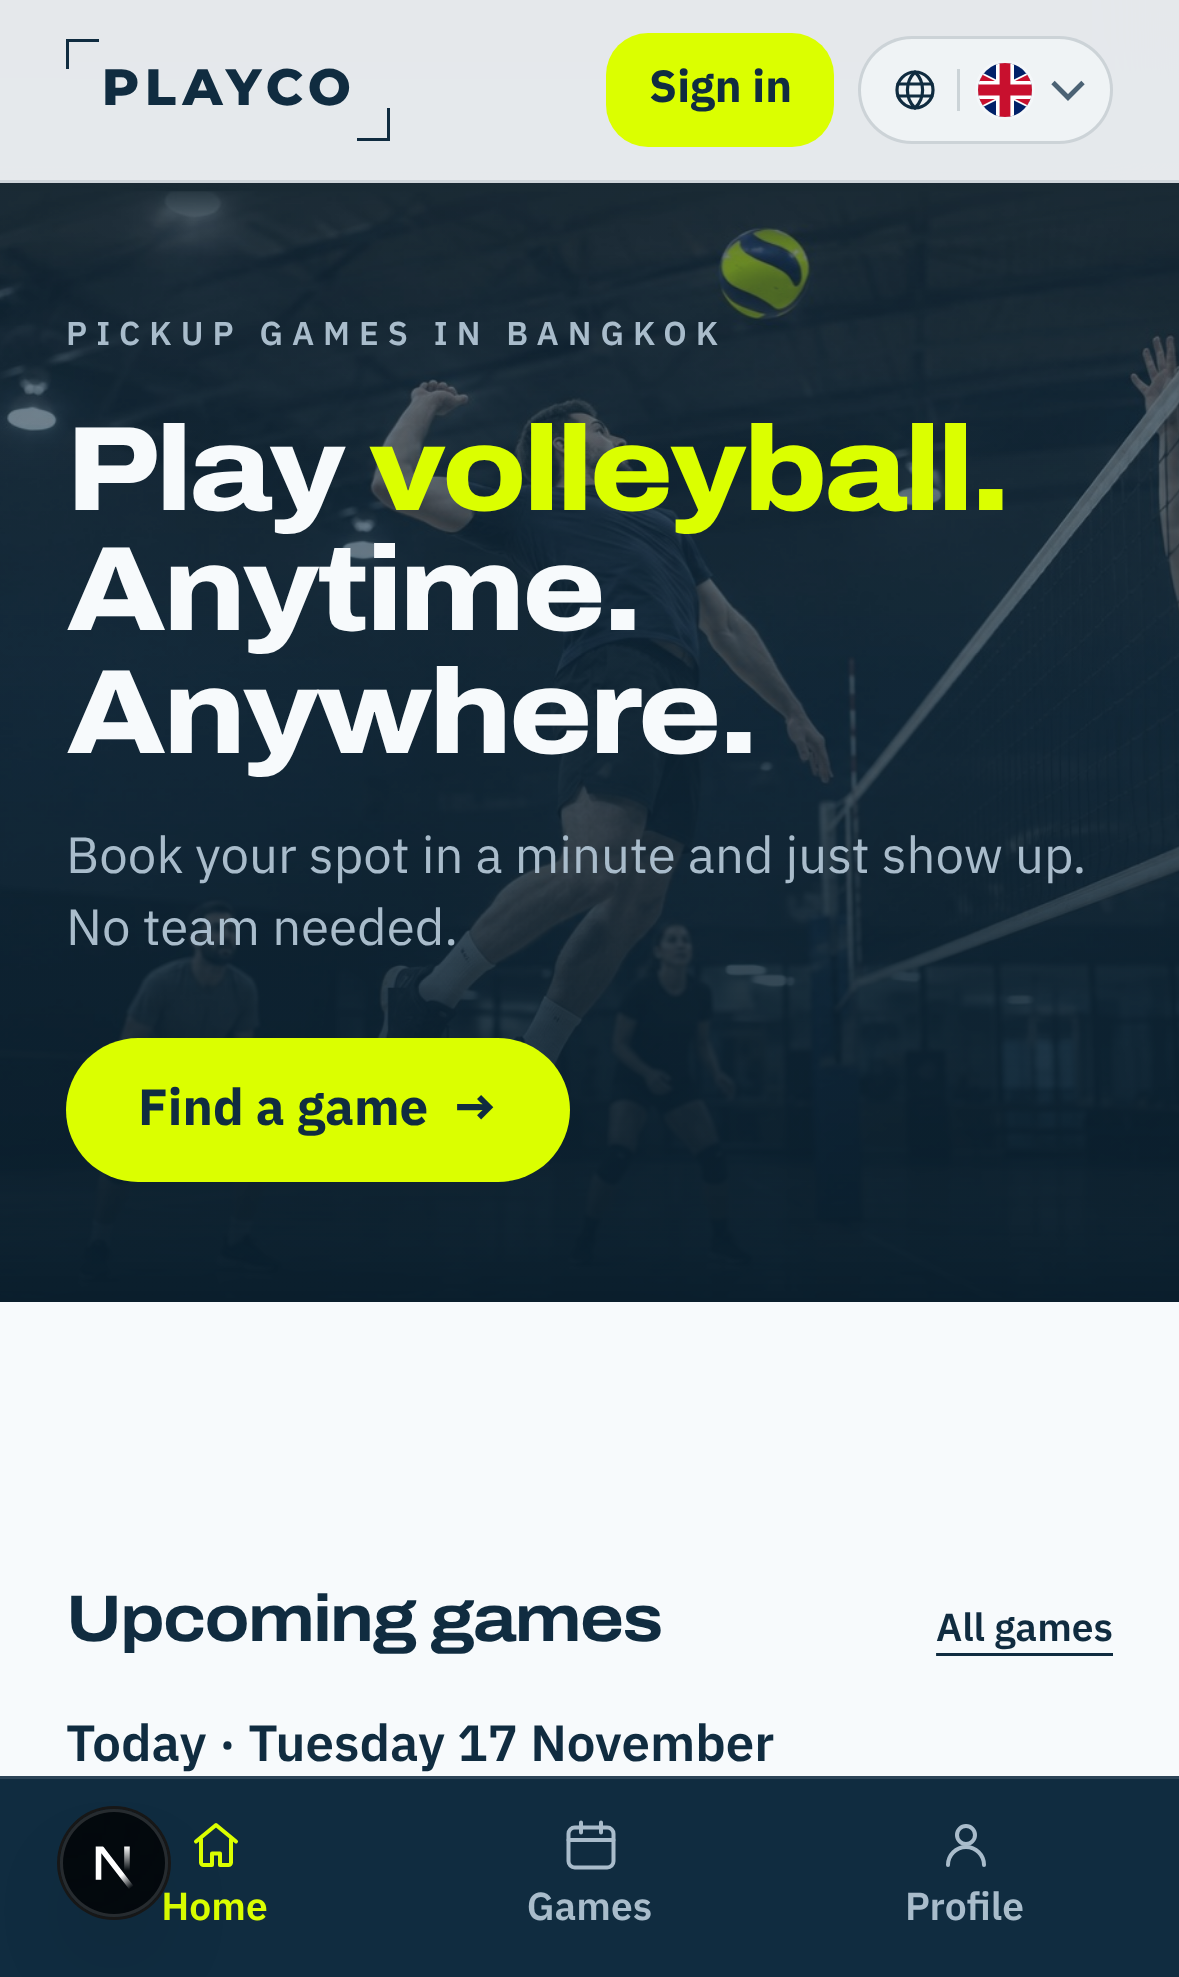
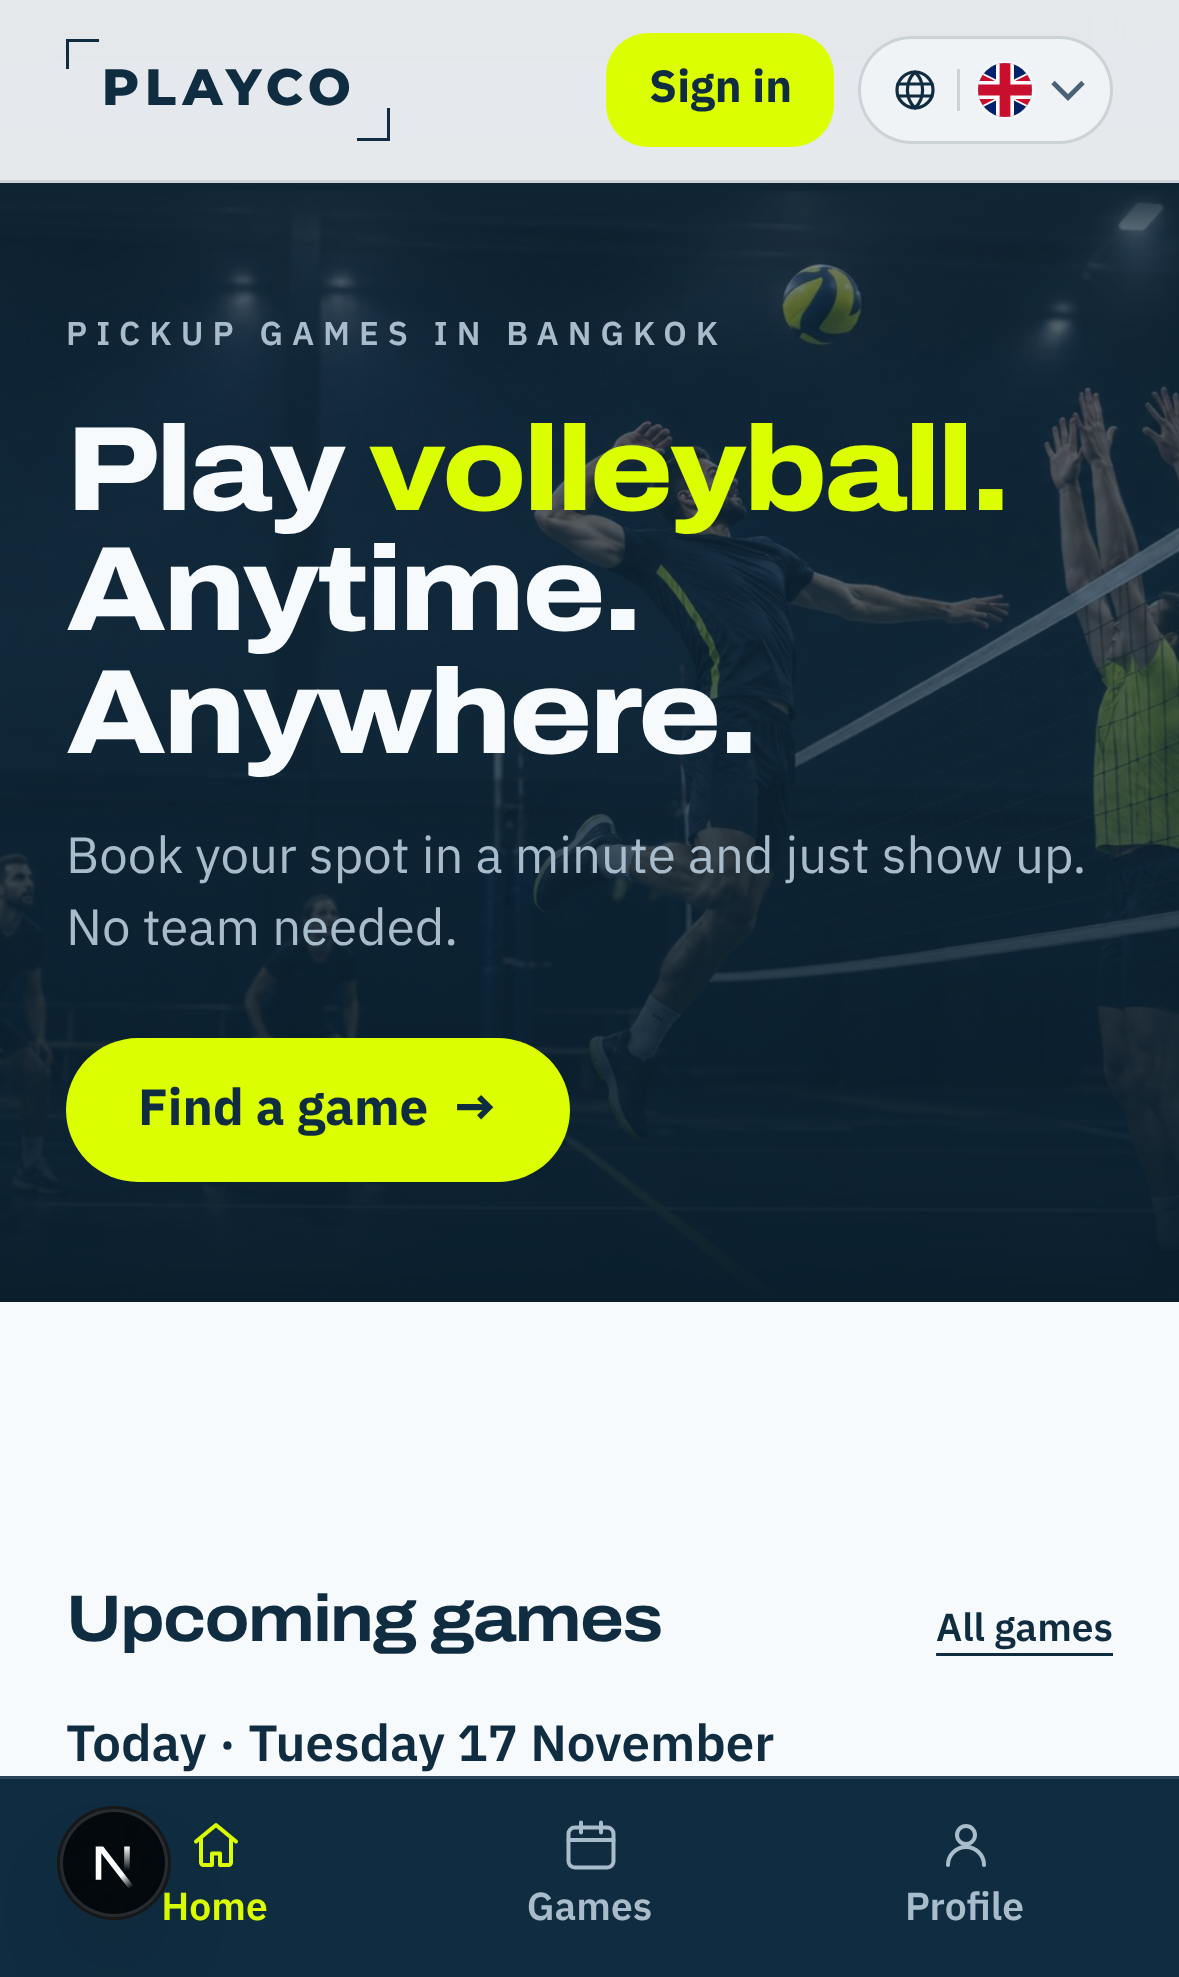
Hero photo generated in the brand colours: navy hall and court, lime shirts, ball and line
Replaces the recoloured first image with one generated in the palette: a navy
hall and court, the blockers in lime, lime trim on the spiker, a lime-and-navy
ball and a lime court line. scripts/prepare-hero-photo.py paints out the
sportswear logos the generator drew (shorts, shoes, a sock) and adds headroom
so the ball clears the header. On phones the crop is centred on the spiker.

Claude-Session: https://claude.ai/code/session_01M3nzie131CXDQtmL21Agmr

diff --git a/app/page.tsx b/app/page.tsx
@@ -140,8 +140,8 @@ export default async function LandingPage() {
         eyebrow, "Play volleyball. Anytime. Anywhere.", one sentence, one action. A dark island (`theme-dark`), so
         `text-bone` is Cloud White and `text-accent` is lime here. The photo is a volleyball spike at the net
         (owner, 17 Nov 2026: "an action volleyball play", in place of the hall photo that read as a basketball court),
-        generated for Playco, so it needs no credit line, and graded into the brand colours (navy shadows, lime ball, cool
-        court; `scripts/grade-hero-photo.py`). A background video may replace it later (TODO.md).
+        generated for Playco in the brand colours (navy hall and court, lime shirts, ball and line), so it needs no credit
+        line. `scripts/prepare-hero-photo.py` paints out the logos the generator drew and adds headroom over the ball. A background video may replace it later (TODO.md).
       */}
       <section data-testid="home-hero" className="theme-dark relative isolate overflow-hidden">
         <Image
@@ -150,7 +150,8 @@ export default async function LandingPage() {
           fill
           priority
           sizes="100vw"
-          className="-z-20 animate-hero-drift object-cover motion-reduce:animate-none"
+          /* On a phone the frame is cropped to a tall strip: centre it on the spiker and the ball, right of middle. */
+          className="-z-20 animate-hero-drift object-cover object-[66%_center] motion-reduce:animate-none md:object-center"
         />
         <span aria-hidden className="absolute inset-0 -z-10 bg-gradient-to-b from-ink/50 via-ink/65 to-page" />
         <div className="mx-auto flex max-w-shell flex-col items-start gap-4 px-gutter pb-10 pt-[calc(theme(spacing.nav)+40px)] md:pb-16 md:pt-[calc(theme(spacing.nav)+96px)]">

diff --git a/scripts/prepare-hero-photo.py b/scripts/prepare-hero-photo.py
@@ -1,0 +1,62 @@
+# One-off: prepares the generated hero photo for the home page.
+#   1. paints out brand-like marks on shorts, shoes and socks (the generator drew sportswear logos);
+#   2. adds headroom above the ball, so it clears the site header instead of hiding behind it.
+# Usage: python3 scripts/prepare-hero-photo.py <source.png> public/hero-default.jpg
+import sys
+import numpy as np
+from PIL import Image, ImageFilter
+
+src, out = sys.argv[1], sys.argv[2]
+a = np.asarray(Image.open(src).convert("RGB")).copy()
+h, w, _ = a.shape
+NAVY = np.array([0x10, 0x2C, 0x40]) / 255.0
+rng = np.random.default_rng(7)
+
+# (x0, y0, x1, y1, kind): "light" = a light mark on dark cloth, "dark" = a dark mark on a white shoe or sock,
+# "lime" = a lime mark on a dark shoe, "dim" = a grey mark on a dark shoe. The mark's pixels take the surrounding material's median colour.
+MARKS = [
+    (1286, 611, 1307, 626, "light"),  # blocker's shorts
+    (1405, 618, 1428, 635, "light"),  # second blocker's shorts
+    (1308, 822, 1339, 855, "light"),  # shoe, bottom right
+    (1350, 838, 1380, 864, "dim"),    # second shoe, bottom right
+    (845, 504, 871, 527, "lime"),     # spiker's raised shoe
+    (884, 669, 904, 697, "lime"),     # spiker's lower shoe
+    (888, 509, 900, 523, "dark"),     # spiker's sock
+    (162, 819, 189, 834, "dark"),     # left player's shoe
+    (0, 826, 13, 847, "dark"),        # left player's other shoe
+    (83, 667, 94, 678, "lime"),       # left player's shorts
+]
+
+for x0, y0, x1, y1, kind in MARKS:
+    p = a[y0:y1, x0:x1].astype(np.float32)
+    lum = p.mean(axis=2)
+    mx, mn = p.max(axis=2), p.min(axis=2)
+    sat = (mx - mn) / np.maximum(mx, 1)
+    if kind == "light":
+        mark, base = lum > 95, lum < 70
+    elif kind == "dim":   # a grey mark on a dark shoe
+        mark, base = lum > 58, lum < 45
+    elif kind == "dark":  # relative to the shoe's own tone, which is shaded
+        mid = np.median(lum)
+        mark, base = lum < mid - 28, lum >= mid
+    else:  # lime: saturated and green-yellow
+        mark = (sat > 0.3) & (p[..., 1] > p[..., 2] * 1.3) & (lum > 55)
+        base = (lum < 60) & ~mark
+    if not mark.any() or not base.any():
+        continue
+    fill = np.median(p[base], axis=0) + rng.normal(0, 2.5, p.shape)
+    m = Image.fromarray((mark * 255).astype(np.uint8)).filter(ImageFilter.MaxFilter(3)).filter(ImageFilter.GaussianBlur(0.8))
+    m = (np.asarray(m).astype(np.float32) / 255.0)[..., None]
+    a[y0:y1, x0:x1] = np.clip(p * (1 - m) + fill * m, 0, 255).astype(np.uint8)
+
+# Headroom: one flat ceiling tone fading to navy (stretching or mirroring the top rows would repeat the lamps).
+HEADROOM, SEAM = 150, 48
+ga = a.astype(np.float32) / 255.0
+tone = np.median(ga[:40].reshape(-1, 3), axis=0)
+fade = np.linspace(0.2, 1.0, HEADROOM)[:, None, None]
+top = np.broadcast_to(tone * fade + (NAVY * 0.45) * (1 - fade), (HEADROOM, w, 3))
+ease = np.linspace(0.85, 0.0, SEAM)[:, None, None]
+ga[:SEAM] = ga[:SEAM] * (1 - ease) + tone * ease
+canvas = np.concatenate([top, ga], axis=0)
+Image.fromarray((np.clip(canvas, 0, 1) * 255).astype(np.uint8)).save(out, quality=90, optimize=True, progressive=True)
+print("saved", out, canvas.shape[1], "x", canvas.shape[0])
